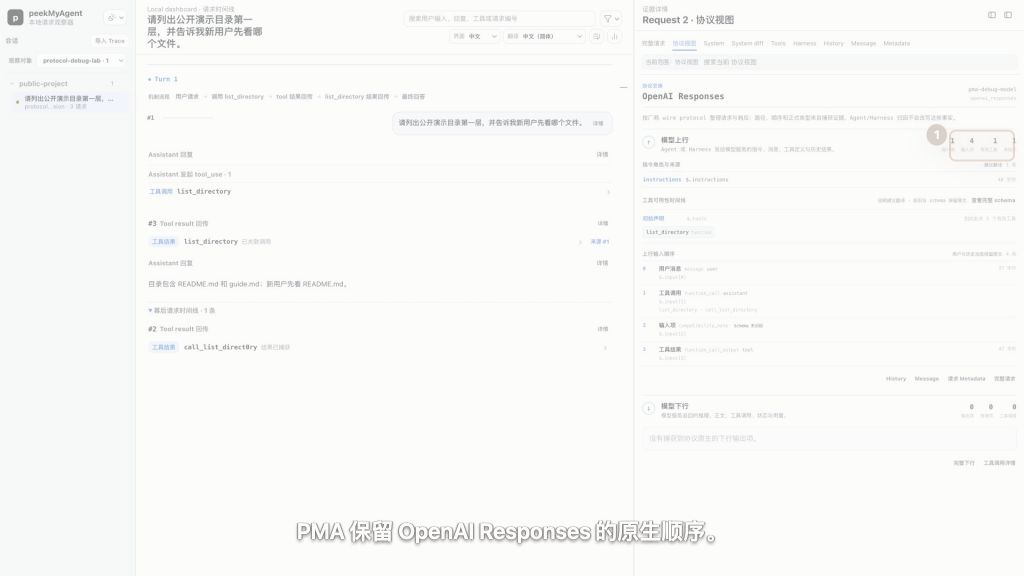
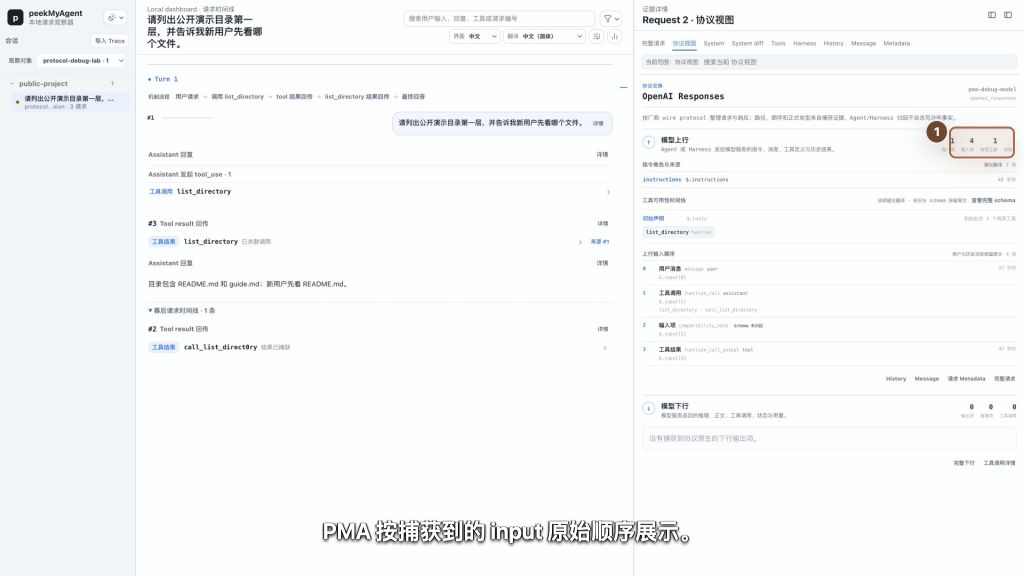
docs: clarify protocol Raw evidence boundaries

diff --git a/docs/user-guide/protocol-raw.md b/docs/user-guide/protocol-raw.md
@@ -8,10 +8,10 @@
 
 | 视图 | 适合解决什么问题 |
 | --- | --- |
-| 协议视图 | 按厂商原生语义顺序阅读 instructions/messages、tool call/result 和 response output |
+| 协议视图 | 按捕获到的厂商协议结构和原始 item 顺序阅读 instructions/messages、tool call/result 和 response output |
 | Raw Inspector | 检查 Capture headers、body、response、provenance、脱敏记录和任何未被摘要投影的字段 |
 
-协议视图不是二次生成的对话稿。每个条目保留原始位置，例如 `$.input[4]`、`$.messages[2].content[1]`，并可以继续跳到 Raw。
+协议视图不是二次生成的自然语言对话稿。它从捕获 body 投影协议结构，每个条目保留原始位置，例如 `$.input[4]`、`$.messages[2].content[1]`，并可以继续跳到 Raw。为统一阅读，Viewer 会给部分条目补充语义角色；例如 OpenAI Responses 的 `function_call` 与 `function_call_output` 是通过 `call_id` 关联的两种 Item，界面中的 assistant / tool 标签不是这两种 Item 在 wire 上自带的 role。
 
 ## 当前可识别协议
 
@@ -38,7 +38,7 @@ Viewer 当前能解析并展示以下协议证据：
 
 ![在幕后请求时间线中定位失败的 Request 2](../../assets/demo/source/protocol-raw/recording/review-1920/01b-request-2.png)
 
-切到 `协议视图` 后，Viewer 按 OpenAI Responses 原生顺序展示四个上行项，并把测试用 `compatibility_note` 标成 `Schema 未识别`。这个提示只说明投影器不认识该项，**不能**据此断言它导致失败。打开 `完整请求`，在 Raw 中搜索 `call_list_`，才能同时看到 `$.input[1].call_id` 的正确值和 `$.input[3].call_id` 的错误值。
+切到 `协议视图` 后，Viewer 按捕获到的 `input` 原始顺序展示四个上行项，并把人为加入的非标准测试项 `compatibility_note` 标成 `Schema 未识别`。这个提示只说明投影器不认识该项，**不代表它属于 OpenAI 官方 schema，也不能据此断言它导致失败**。打开 `完整请求`，在 Raw 中搜索 `call_list_`，才能同时看到 `$.input[1].call_id` 的正确值和 `$.input[3].call_id` 的错误值。
 
 接着从协议页打开 `完整下行`，把 Response 切到 `原文`。上游错误对象明确给出 `invalid_tool_output`、参数位置 `input[3].call_id`，下方 capture 元数据记录 HTTP 400；这是错误原因的直接证据。
 
@@ -68,6 +68,8 @@ Viewer 当前能解析并展示以下协议证据：
 ```
 
 重点核对 `input` 顺序、call id、工具定义是否真的存在，以及 response 的完整终态事件是否被捕获。
+
+这里的 `function_call` 和 `function_call_output` 是两种 typed Item，不是分别带有 assistant / tool 原生 role 的 message。二者通过相同的 `call_id` 建立关联；这也是 [OpenAI Responses 函数调用文档](https://developers.openai.com/api/docs/guides/migrate-to-responses#follow-function-calling-best-practices) 明确要求核对的关联字段。
 
 ## Anthropic Messages 示例
 

diff --git a/assets/demo/source/protocol-raw/narration.zh-CN.md b/assets/demo/source/protocol-raw/narration.zh-CN.md
@@ -9,7 +9,7 @@
 - 场景：一个只读目录工具的 `function_call_output.call_id` 把字母 `o` 写成数字 `0`；
 - 证据：真实 PMA Capture Proxy、确定性 loopback 上游、1 Turn / 3 Request、HTTP 400 原文与 exact provenance；
 - 结果：Request 2 被上游拒绝，Request 3 修正后得到最终回答；
-- 限制：未知 `compatibility_note` 与 call id 错误同时存在，但演示不会把未知项误写成 HTTP 400 的原因；
+- 限制：`compatibility_note` 是人为加入的非标准测试项；它与 call id 错误同时存在，但演示不会把未知项误写成 HTTP 400 的原因；
 - 画面：Codex 配色、1920×1080 完整三栏、无黑边、底部居中单句字幕；
 - 隐私：固定 `/tmp/pma-protocol-debug-demo/public-project`、公开虚构文本、占位 token、无外部请求。
 
@@ -40,7 +40,7 @@
 
 ### 00:42–01:08　协议视图先告诉你哪一层异常
 
-切到协议视图，PMA 仍然按 OpenAI Responses 的原生顺序展示这次上行。顶部统计四个输入项，其中一个未知项；再往下看，第三项是 compatibility note，并标记 Schema 未识别。这里能确定异常位于 input 数组，但协议摘要不会假装理解未知字段。
+切到协议视图，PMA 按这次 Responses 形状请求中捕获到的 input 原始顺序展示四项上行。顶部统计其中一个未知项；再往下看，第三项是人为加入的非标准 compatibility note，并标记 Schema 未识别。这里能定位未知项所在的 input 层级，但协议摘要不会把它冒充官方 schema，也不会推断它造成了四百错误。
 
 ### 01:08–01:30　Raw 搜索证明未知字段没有丢失
 
